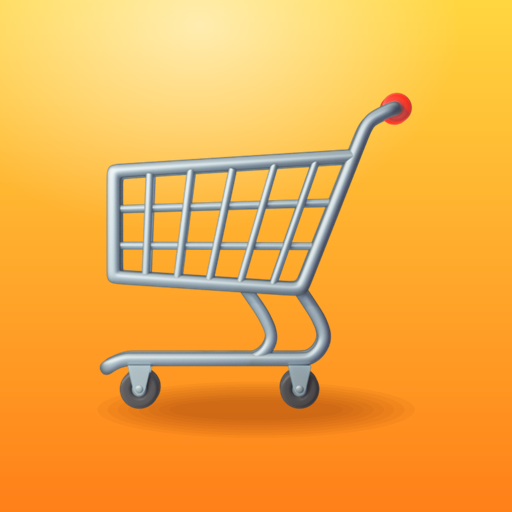
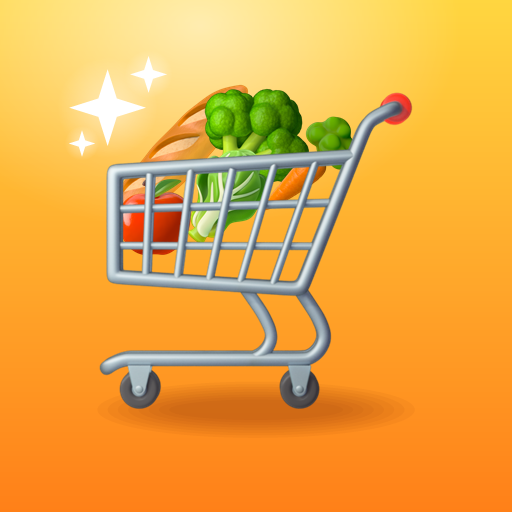
아이콘: 채소·빵이 담긴 입체 카트와 반짝이

Changed region(s): [[0.2188, 0.1562, 0.6875, 0.5], [0.125, 0.0938, 0.3438, 0.3125]]

diff --git a/sw.js b/sw.js
@@ -1,6 +1,6 @@
 // 휴대폰 웹앱용 서비스 워커: 앱 설치를 가능하게 하고, 인터넷이 끊겨도 화면이 열리게 해요.
 // (크롬 확장 프로그램에서는 쓰이지 않아요)
-const CACHE = "rangi-v5";
+const CACHE = "rangi-v6";
 const FILES = ["generator.html", "app.webmanifest", "icons/icon-192.png", "icons/icon-512.png"];
 
 self.addEventListener("install", (e) => {
